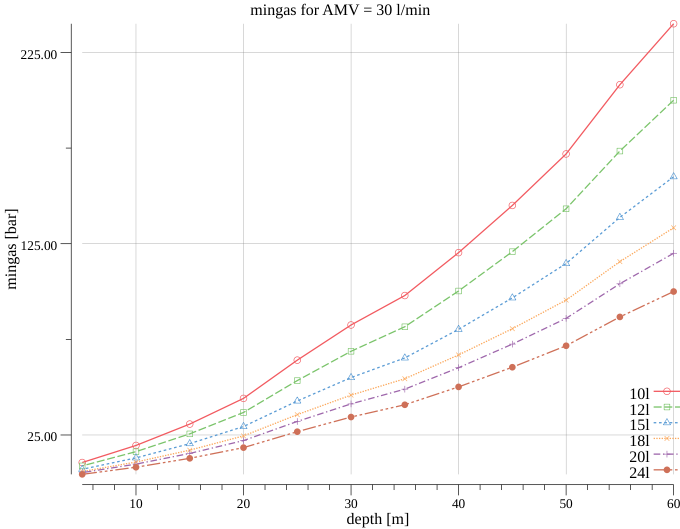
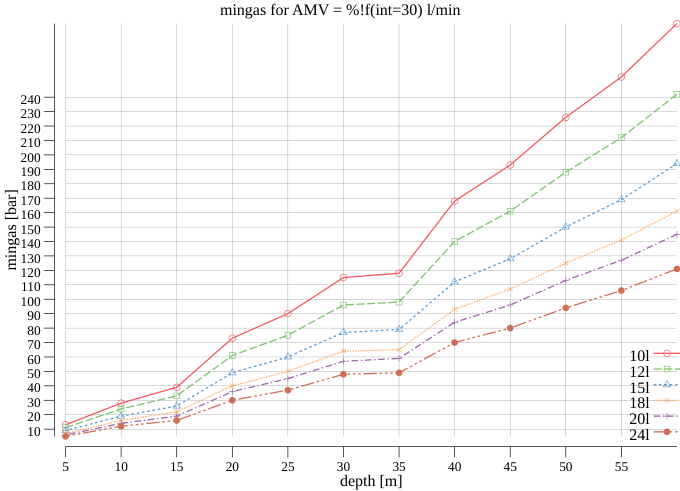
:construction:

diff --git a/main.go b/main.go
@@ -3,6 +3,7 @@ package main
 import (
 	"fmt"
 	"log"
+	"math"
 	"os"
 	"strconv"
 
@@ -12,22 +13,35 @@ import (
 	"gonum.org/v1/plot/vg"
 )
 
+const (
+	// xSize is the size for the x axis
+	xSize = 180 * vg.Millimeter
+	// ySize is the size for the y axis
+	ySize = 130 * vg.Millimeter
+	// filename for the graph
+	filename = "mingas.png"
+)
+
+// nolint: gochecknoglobals
+var (
+	// maxDepth start depth [m] for calculations
+	maxDepth = 60
+	// minDepth end depth [m] for calculations
+	minDepth = 0
+	// depthStep for calculations
+	depthStep = 5
+)
+
 func main() {
 	var (
 		// AMV is the Atemminutenvolumen
-		amv = 30.0
-		// bottles volume in liters
+		amv = 30
+		// bottle volumes in liters
 		bottles = []int{10, 12, 15, 18, 20, 24}
-		// depthStart for calculations
-		depthStart = 60
-		// depthEnd for calculations
-		depthEnd = 0
-		// depthStep for calculations
-		depthStep = 5
 	)
 
 	if len(os.Args) == 2 {
-		v, err := strconv.ParseFloat(os.Args[1], 64)
+		v, err := strconv.Atoi(os.Args[1])
 		if err != nil {
 			log.Fatal(err)
 		}
@@ -40,13 +54,13 @@ func main() {
 	for _, v := range bottles {
 		points := []*point{}
 
-		if depthStart < depthEnd {
-			depthStart, depthEnd = depthEnd, depthStart
+		if maxDepth < minDepth {
+			maxDepth, minDepth = minDepth, maxDepth
 		}
 
-		for d := depthStart; d > depthEnd; d -= depthStep {
+		for d := maxDepth; d > minDepth; d -= depthStep {
 			p := &point{
-				Depth: float64(d),
+				Depth: d,
 			}
 
 			p.Calc(amv)
@@ -63,39 +77,54 @@ func main() {
 }
 
 type point struct {
-	Depth  float64
-	MinGas float64
+	Depth  int
+	MinGas int
 }
 
-func (p *point) Calc(amv float64) {
+func (p *point) Calc(amv int) {
 	const (
 		// time at depth while trying to solve the problem
-		tdepth = 1
+		tdepth   = 1
+		consumer = 2
 	)
 
-	stepsMin := p.Depth / 2 / 3
-	stepsMax := stepsMin
-
-	if int(p.Depth/2)%3 > 0 {
-		stepsMax = stepsMin + 1
-	}
+	// e.g. 40m / 2 = 20m -> 20m / 3 = 6 Steps
+	steps := p.Depth / 2 / 3
 
 	// air consumption at depth while trying to solve the problem
-	air0 := 2.0 * amv * tdepth * (1 + (p.Depth / 10))
+	// e.g. 40m: 2 * 30 * 1 * (1 + (40/10)) = 600 l
+	air0 := consumer * amv * tdepth * (1 + (p.Depth / 10))
 
 	// air consumption during the ascent to half the depth
-	avDepth11 := (stepsMin*3 + p.Depth) / 2.0
-	tascent11 := (p.Depth - stepsMin*3) / 10.0
-	air1 := 2.0 * amv * tascent11 * (1 + (avDepth11 / 10.0))
+	// e.g. 40m->18m: (6 * 3 + 40) / 2.0 = 29
+	avDepth1 := float64(steps*3+p.Depth) / 2.0
+	// e.g. 40m->18m: (40m - 6 * 3m) / 10.0 = 2.2
+	tascent1 := float64(p.Depth-steps*3) / 10.0
+	// always round up to the next full minute
+	// e.g. 2.2 -> 3.0
+	if math.Round(tascent1) < tascent1 {
+		tascent1++
+	}
 
-	avDepth12 := (stepsMax*3 + p.Depth) / 2.0
-	tascent12 := (p.Depth - stepsMax*3) / 10.0
-	air2 := 2.0 * amv * tascent12 * (1 + (avDepth12 / 10.0))
+	tascent1 = math.Round(tascent1)
+	// air consumption
+	// e.g. 40m->18m: 2 * 30 * 3.0 * (1 + (29.0 / 10.0)) = 702
+	air1 := float64(consumer*amv) * tascent1 * (1 + (avDepth1 / 10.0))
 
-	p.MinGas = air0 + air1 + air2
+	// air consumption
+	// e.g. 18m->0m: (6 * 3) / 2.0 = 9.0
+	avDepth2 := float64(steps*3) / 2.0
+	// e.g. 18m->0m: 18 / 3 = 6 == steps
+	tascent2 := float64(steps)
+	// e.g. 18m->0m: 2 * 30 * 3.0 * 6.0 * (1 + (9.0 / 10.0)) = 2052.0
+	air2 := float64(consumer*amv) * tascent2 * (1 + (avDepth2 / 10.0))
+
+	fmt.Println(p.Depth, steps, air0, air1, air2)
+
+	p.MinGas = air0 + int(air1) + int(air2)
 }
 
-func plotChart(amv float64, bottles []int, data map[int][]*point) error {
+func plotChart(amv int, bottles []int, data map[int][]*point) error {
 	p, err := plot.New()
 	if err != nil {
 		return err
@@ -103,7 +132,10 @@ func plotChart(amv float64, bottles []int, data map[int][]*point) error {
 
 	p.Title.Text = fmt.Sprintf("mingas for AMV = %.0f l/min", amv)
 	p.X.Label.Text = "depth [m]"
+	p.X.Tick.Marker = depthTicks{}
 	p.Y.Label.Text = "mingas [bar]"
+	p.Y.Tick.Marker = gasTicks{}
+
 	g := plotter.NewGrid()
 	p.Add(g)
 
@@ -114,8 +146,8 @@ func plotChart(amv float64, bottles []int, data map[int][]*point) error {
 
 		for _, p := range data[v] {
 			points = append(points, plotter.XY{
-				X: p.Depth,
-				Y: p.MinGas / float64(v),
+				X: float64(p.Depth),
+				Y: float64(p.MinGas / v),
 			})
 		}
 
@@ -127,9 +159,41 @@ func plotChart(amv float64, bottles []int, data map[int][]*point) error {
 	}
 
 	// Save the plot to a PNG file.
-	if err := p.Save(180*vg.Millimeter, 140*vg.Millimeter, "mingas.png"); err != nil {
+	if err := p.Save(xSize, ySize, filename); err != nil {
 		panic(err)
 	}
 
 	return err
+}
+
+// custom ticks for depth axis
+type depthTicks struct{}
+
+func (depthTicks) Ticks(min, max float64) []plot.Tick {
+	t := []plot.Tick{}
+
+	for i := minDepth; i < maxDepth; i += depthStep {
+		t = append(t, plot.Tick{
+			Value: float64(i),
+			Label: fmt.Sprintf("%d", i),
+		})
+	}
+
+	return t
+}
+
+// custom ticks for gas axis
+type gasTicks struct{}
+
+func (gasTicks) Ticks(min, max float64) []plot.Tick {
+	t := []plot.Tick{}
+
+	for i := 0; i < 250; i += 10 {
+		t = append(t, plot.Tick{
+			Value: float64(i),
+			Label: fmt.Sprintf("%d", i),
+		})
+	}
+
+	return t
 }
